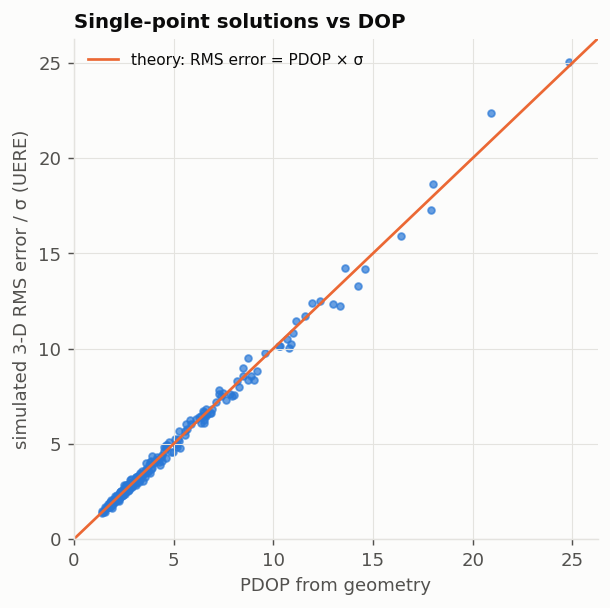
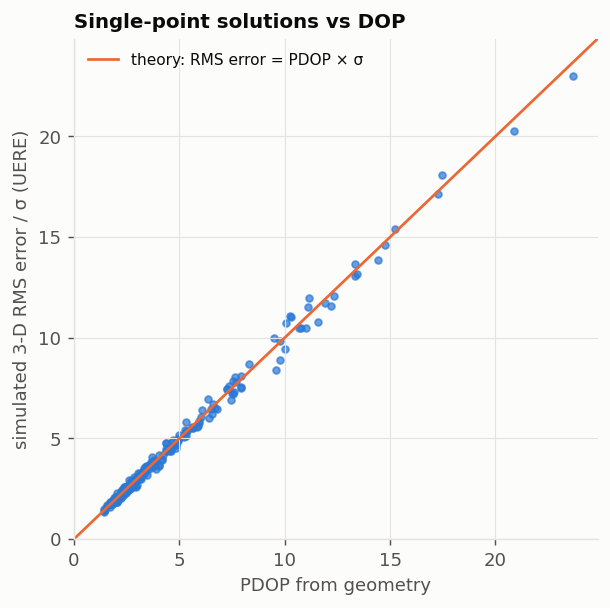
Use GRGM1200A coefficients from the PDS file instead of a secondary table

diff --git a/lunarnav/constants.py b/lunarnav/constants.py
@@ -2,12 +2,13 @@
 
 Sources
 -------
-GM_MOON, R_REF, J2/C22/degree-3 harmonics: GRAIL-era solution as tabulated on
-    https://en.wikipedia.org/wiki/Gravitation_of_the_Moon (secondary summary of
-    Konopliv+2014, Lemoine+2013, Williams+2014). Coefficients are unnormalised and
-    expressed in the *principal-axis* frame, which is why C21 = S21 = S22 = 0.
-    The degree-3 values come from that same secondary table; swap in a full
-    GRGM1200A/LP165P table if you need more than a demonstration.
+GM_MOON, R_REF, degree 2-3 harmonics: GSFC GRAIL field GRGM1200A (Lemoine et al. 2014,
+    doi:10.1002/2014GL060027), copied digit for digit from the header and first rows of
+    the PDS file gggrx_1200a_sha.tab (PDS Geosciences Node, GRAIL archive
+    grail-l-lgrs-5-rdr-v1/grail_1001/shadr). The file's coefficients are fully
+    normalised and expressed in the DE430 *principal-axis* frame, which is why C21, S21
+    and S22 are ~1e-9 rather than exactly zero. The code applies them in the DE440 PA
+    frame; the small difference between the DE430 and DE440 PA realisations is ignored.
 GM_EARTH, GM_SUN: JPL DE440 (Park et al. 2021), rounded.
 R_MEAN: IAU mean lunar radius (Archinal et al. 2018).
 PA_TO_ME_ARCSEC: NAIF frame kernel moon_de440_*.tf, frame MOON_ME_DE440_ME421.
@@ -18,17 +19,30 @@ DEG = math.pi / 180.0
 ARCSEC = DEG / 3600.0
 
 # --- lunar gravity ---------------------------------------------------------
-GM_MOON = 4902.8001          # km^3 / s^2
+GM_MOON = 4902.8001224453    # km^3 / s^2, GRGM1200A header
 R_REF = 1738.0               # km, reference radius of the gravity field
 R_MEAN = 1737.4              # km, IAU mean radius (used for the spherical user surface)
 
-# Unnormalised C_nm, S_nm in the principal-axis frame (C20 = -J2).
-J2 = 203.3e-6
-C22 = 22.4e-6
-J3 = 8.46e-6
-C31, S31 = 28.48e-6, 5.89e-6
-C32, S32 = 4.84e-6, 1.67e-6
-C33, S33 = 1.71e-6, -0.25e-6
+# GRGM1200A fully normalised (Cbar_nm, Sbar_nm), principal-axis frame, as in the PDS file.
+GRGM1200A_NORMALISED = {
+    (2, 0): (-9.0884339347424299e-05, 0.0),
+    (2, 1): (1.4664123550281899e-11, 1.1732764234889199e-09),
+    (2, 2): (3.4673096470696298e-05, 9.0791898343722900e-10),
+    (3, 0): (-3.1973308084610398e-06, 0.0),
+    (3, 1): (2.6368006624354499e-05, 5.4545456359614202e-06),
+    (3, 2): (1.4171528802855700e-05, 4.8780365791727604e-06),
+    (3, 3): (1.2275208368114099e-05, -1.7742221828590300e-06),
+}
+
+
+def normalisation(n, m):
+    """Factor N_nm with C_nm = N_nm * Cbar_nm for geodesy 4-pi normalised coefficients."""
+    return math.sqrt((2 - (m == 0)) * (2 * n + 1) * math.factorial(n - m) / math.factorial(n + m))
+
+
+J2 = -normalisation(2, 0) * GRGM1200A_NORMALISED[(2, 0)][0]    # 2.0322e-4
+J3 = -normalisation(3, 0) * GRGM1200A_NORMALISED[(3, 0)][0]    # 8.459e-6
+C22 = normalisation(2, 2) * GRGM1200A_NORMALISED[(2, 2)][0]    # 2.2381e-5
 
 # --- third bodies ----------------------------------------------------------
 GM_EARTH = 398600.4355       # km^3 / s^2

diff --git a/tests/test_gravity.py b/tests/test_gravity.py
@@ -30,7 +30,8 @@ def test_point_mass_limit():
 
 def test_j2_closed_form():
     cnm, snm = default_coefficients(2)
-    cnm[2, 2] = 0.0
+    cnm[2, 1:] = 0.0
+    snm[:] = 0.0
     a = harmonic_acceleration(R_TEST, cnm, snm)
     x, y, z = R_TEST
     r = np.linalg.norm(R_TEST)
@@ -52,6 +53,25 @@ def test_degree3_matches_finite_difference_of_potential():
     ])
     a = harmonic_acceleration(R_TEST, cnm, snm)
     np.testing.assert_allclose(a, grad, rtol=1e-6, atol=1e-12)
+
+
+@pytest.mark.parametrize("n,m", [(2, 0), (2, 1), (2, 2), (3, 0), (3, 1), (3, 2), (3, 3)])
+def test_normalisation_gives_unit_mean_square_on_the_sphere(n, m):
+    # Geodesy 4-pi normalisation: Pbar_nm(sin phi) cos(m lam) has mean square 1 over the sphere.
+    # Gauss-Legendre in sin(phi) and a uniform grid in longitude integrate it exactly.
+    x, w = np.polynomial.legendre.leggauss(12)
+    lam = np.linspace(0, 2 * np.pi, 16, endpoint=False)
+    pbar = C.normalisation(n, m) * (-1) ** m * lpmv(m, n, x)
+    mean_sq = np.sum(w * pbar**2) / 2 * np.mean(np.cos(m * lam) ** 2)
+    assert mean_sq == pytest.approx(1.0, rel=1e-12)
+
+
+def test_coefficients_are_grgm1200a():
+    cnm, snm = default_coefficients(3)
+    assert cnm[2, 0] == pytest.approx(-C.normalisation(2, 0) * 9.0884339347424299e-05, rel=1e-15)
+    assert C.J2 == pytest.approx(2.0322e-4, rel=1e-4)
+    assert C.C22 == pytest.approx(2.2381e-5, rel=1e-4)
+    assert abs(cnm[2, 1]) < 1e-10 and abs(snm[2, 1]) < 1e-8 and abs(snm[2, 2]) < 1e-8   # PA frame
 
 
 def test_third_body_direct_plus_indirect_on_the_earth_line():

diff --git a/lunarnav/gravity.py b/lunarnav/gravity.py
@@ -10,16 +10,16 @@ from . import constants as C
 
 
 def default_coefficients(n_max=3):
-    """(Cnm, Snm) arrays of shape (n_max+1, n_max+1), unnormalised, C00 = 1."""
+    """(Cnm, Snm) arrays of shape (n_max+1, n_max+1), unnormalised, C00 = 1.
+
+    Degrees 2-3 of GRGM1200A, converted from the file's normalised values.
+    """
     cnm = np.zeros((4, 4))
     snm = np.zeros((4, 4))
     cnm[0, 0] = 1.0
-    cnm[2, 0] = -C.J2
-    cnm[2, 2] = C.C22
-    cnm[3, 0] = -C.J3
-    cnm[3, 1], snm[3, 1] = C.C31, C.S31
-    cnm[3, 2], snm[3, 2] = C.C32, C.S32
-    cnm[3, 3], snm[3, 3] = C.C33, C.S33
+    for (n, m), (cbar, sbar) in C.GRGM1200A_NORMALISED.items():
+        k = C.normalisation(n, m)
+        cnm[n, m], snm[n, m] = k * cbar, k * sbar
     return cnm[:n_max + 1, :n_max + 1], snm[:n_max + 1, :n_max + 1]
 
 

diff --git a/lunarnav/frames.py b/lunarnav/frames.py
@@ -12,7 +12,8 @@ ME  (Mean Earth / Polar Axis)
     series (the form NAIF ships as IAU_MOON in pck00011.tpc).
 PA  (Principal Axis)
     Body-fixed. Axes are the Moon's principal axes of inertia. Gravity-field
-    coefficients are defined here, so C21 = S21 = S22 = 0 and C20, C22 dominate.
+    coefficients are defined here, so C21, S21, S22 vanish (~1e-9 in GRGM1200A) and C20,
+    C22 dominate.
     PA differs from ME by a *constant* rotation of ~0.029 deg (~875 m on the surface).
 
 Rotation convention: ``R_a_to_b`` maps components in frame ``a`` to components in

diff --git a/README.md b/README.md
@@ -24,7 +24,7 @@ teaching/demonstration code, not a flight or mission-analysis tool; see
 
 ```bash
 pip install -e ".[dev]"                 # add -c constraints.txt for the exact tested versions
-pytest                                  # 32 tests (4 need SPICE kernels, else skipped)
+pytest                                  # 40 tests (4 need SPICE kernels, else skipped)
 PYTHONPATH=. python scripts/run_demo.py --quick    # ~1 min, 7 days, 200 users
 PYTHONPATH=. python scripts/run_demo.py            # ~4 min, 28 days, 800 users
 ```
@@ -38,7 +38,7 @@ The demo regenerates every figure in `docs/figures/` and the tables in
 |---|---|---|
 | **MCI** (ICRF-aligned, Moon-centred) | ICRF axes, origin at the Moon's centre | orbit propagation |
 | **ME**: Mean Earth / Polar Axis | +Z mean rotation axis, prime meridian through the mean Earth direction | cartography, selenographic lat/lon, user positions |
-| **PA**: Principal Axis | axes of the Moon's principal moments of inertia | gravity field (so C21 = S21 = S22 = 0) |
+| **PA**: Principal Axis | axes of the Moon's principal moments of inertia | gravity field (so C21, S21, S22 ≈ 0) |
 | **Orbit-plane** (inertial) | +Z normal to the mean Earth-Moon orbit plane | orbit elements for frozen-orbit design |
 
 * **ME** is realised with the IAU 2009 trigonometric series (pole RA/Dec and prime meridian,
@@ -59,8 +59,10 @@ The demo regenerates every figure in `docs/figures/` and the tables in
 
 Force model (all in `lunarnav/gravity.py`, `lunarnav/propagate.py`):
 
-* Lunar gravity to degree 3 in the **PA** frame (unnormalised Cunningham recursion), with
-  GRAIL-era `GM = 4902.8001 km³/s²`, `R = 1738 km`, `J2 = 203.3e-6`, `C22 = 22.4e-6`.
+* Lunar gravity to degree 3 in the **PA** frame (unnormalised Cunningham recursion), using the
+  GRAIL field **GRGM1200A** (Lemoine et al. 2014): degree 2-3 coefficients, `GM` and `R = 1738 km`
+  copied from the PDS file `gggrx_1200a_sha.tab` and converted from their normalised form in code
+  (`J2 = 2.0322e-4`, `C22 = 2.2381e-5`).
 * Earth and Sun third-body (direct + indirect terms) from analytic ephemerides.
 * DOP853 integrator, `rtol = 1e-11`.
 
@@ -118,6 +120,7 @@ sampling, and design parameters.
 | PA/ME offset magnitude | NAIF: 0.02886°, ~875 m | `test_frames.py` |
 | PA→ME matrix, IAU series, Moon ephemeris | SPICE with DE440 kernels (optional) | `test_spice.py` |
 | Spherical-harmonic acceleration | closed-form J2; finite difference of an independent Legendre-based potential (degree 3) | `test_gravity.py` |
+| Gravity coefficients | normalisation factors give unit mean square over the sphere; values equal the GRGM1200A file | `test_gravity.py` |
 | Propagator + frames | two-body closure/energy; J2 nodal and apsidal rates vs analytic theory (agree to 0.05 %) | `test_orbits.py` |
 | Frozen orbit | bounded e, i, ω over 60 days | `test_orbits.py` |
 | DOP | closed form for a symmetric 4-satellite geometry (HDOP, VDOP, TDOP) | `test_gnss.py` |
@@ -155,8 +158,10 @@ State these before anyone relies on a number from here.
   `lunarnav/ephemeris.py` is a two-method interface, so a SPICE-backed version is a drop-in.
 * **IAU series, not DE440 libration angles**: up to 145 m (82 m RMS) from DE440 ME, so
   positions in the series-based frame are good to roughly a hundred metres.
-* **Gravity field** truncated at degree 3. The degree-3 coefficients come from a secondary
-  summary table (Wikipedia, which cites the GRAIL papers), not the GRGM1200A file.
+* **Gravity field** truncated at degree 3 of GRGM1200A. That is enough for the 12-24 h
+  navigation orbits here (higher degrees fall off as (R/r)^n), not for low lunar orbit, where
+  the mascons call for a far higher degree. The file's PA frame is DE430's while the code rotates with
+  the DE440 PA/ME offset; the small difference between the two PA realisations is ignored.
 * **Frozen-orbit design** uses the first-order relation; no station-keeping, no SRP, no
   relativistic effects.
 * **GNSS side**: spherical Moon, no terrain masking, no signal power/antenna model, no
@@ -183,8 +188,10 @@ State these before anyone relies on a number from here.
 * Montenbruck & Gill (2000), *Satellite Orbits*, Springer: Cunningham recursion (3.2),
   low-precision Moon and Sun (3.3).
 * Meeus (1998), *Astronomical Algorithms*, 2nd ed., chapters 25 and 47.
-* Lunar gravity coefficients: [Gravitation of the Moon](https://en.wikipedia.org/wiki/Gravitation_of_the_Moon)
-  (summary of Konopliv+2014, Lemoine+2013, Williams+2014).
+* Lemoine et al. (2014), *GRGM900C: A degree 900 lunar gravity model from GRAIL primary and
+  extended mission data*, GRL 41, [doi:10.1002/2014GL060027](https://doi.org/10.1002/2014GL060027),
+  the reference the PDS label gives for GRGM1200A; coefficients from the GRGM1200A file on the
+  [PDS Geosciences Node](https://pds-geosciences.wustl.edu/grail/grail-l-lgrs-5-rdr-v1/grail_1001/shadr/).
 * LunaNet interoperability and NASA/ESA/JAXA lunar navigation planning documents on
   [NTRS](https://ntrs.nasa.gov/).
 
@@ -192,7 +199,7 @@ State these before anyone relies on a number from here.
 
 ```
 lunarnav/        constants, timeutil, frames, ephemeris, gravity, orbits, propagate, constellation, gnss
-tests/           32 tests (see table above)
+tests/           40 tests (see table above)
 scripts/run_demo.py   regenerates figures and docs/results.md
 scripts/spice_crosscheck.py   optional comparison with SPICE/DE440
 docs/            figures/ and results.md

diff --git a/docs/results.md b/docs/results.md
@@ -35,4 +35,4 @@ Run: 28.0 days from 2027-01-01, 600 s step, 800 Fibonacci users + named sites, 5
 
 ## Single-point-solution consistency
 
-250 user/epoch samples: simulated RMS error ÷ (PDOP·σ) has median 0.997 and scatter 4.8 %. Sampling noise from 150 draws per sample, computed from each sample's error covariance, predicts 4.9 %. The 3.3 % that holds for a spherical error distribution is too low here: for a surface user the error ellipsoid is elongated (mostly vertical), which leaves fewer effective degrees of freedom and more scatter.
+250 user/epoch samples: simulated RMS error ÷ (PDOP·σ) has median 0.998 and scatter 4.6 %. Sampling noise from 150 draws per sample, computed from each sample's error covariance, predicts 4.9 %. The 3.3 % that holds for a spherical error distribution is too low here: for a surface user the error ellipsoid is elongated (mostly vertical), which leaves fewer effective degrees of freedom and more scatter.
